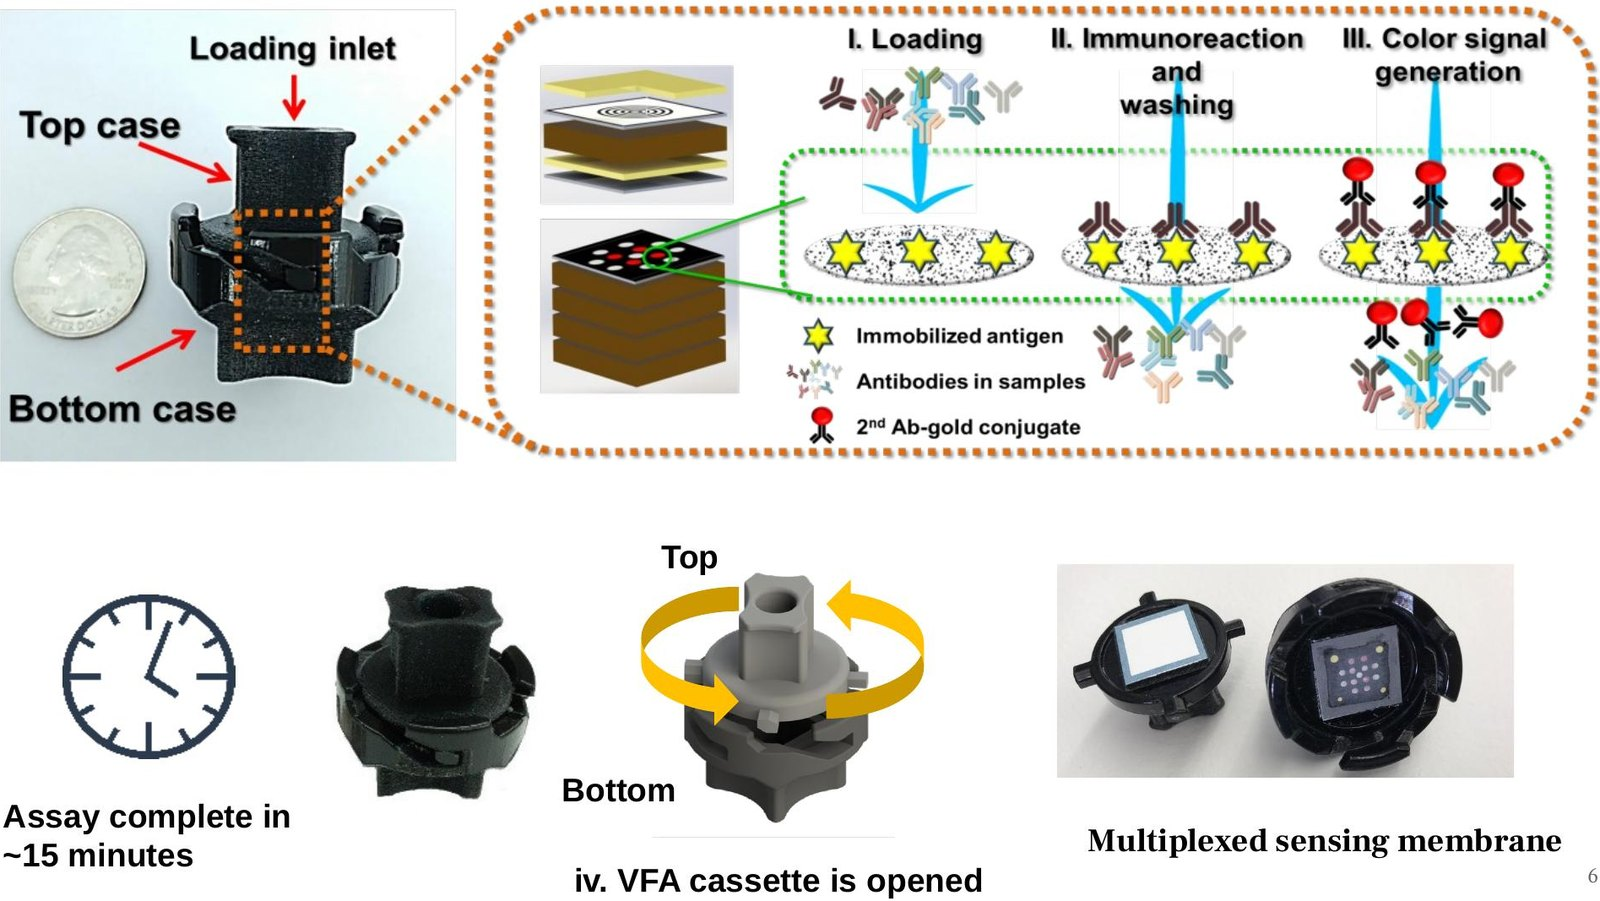
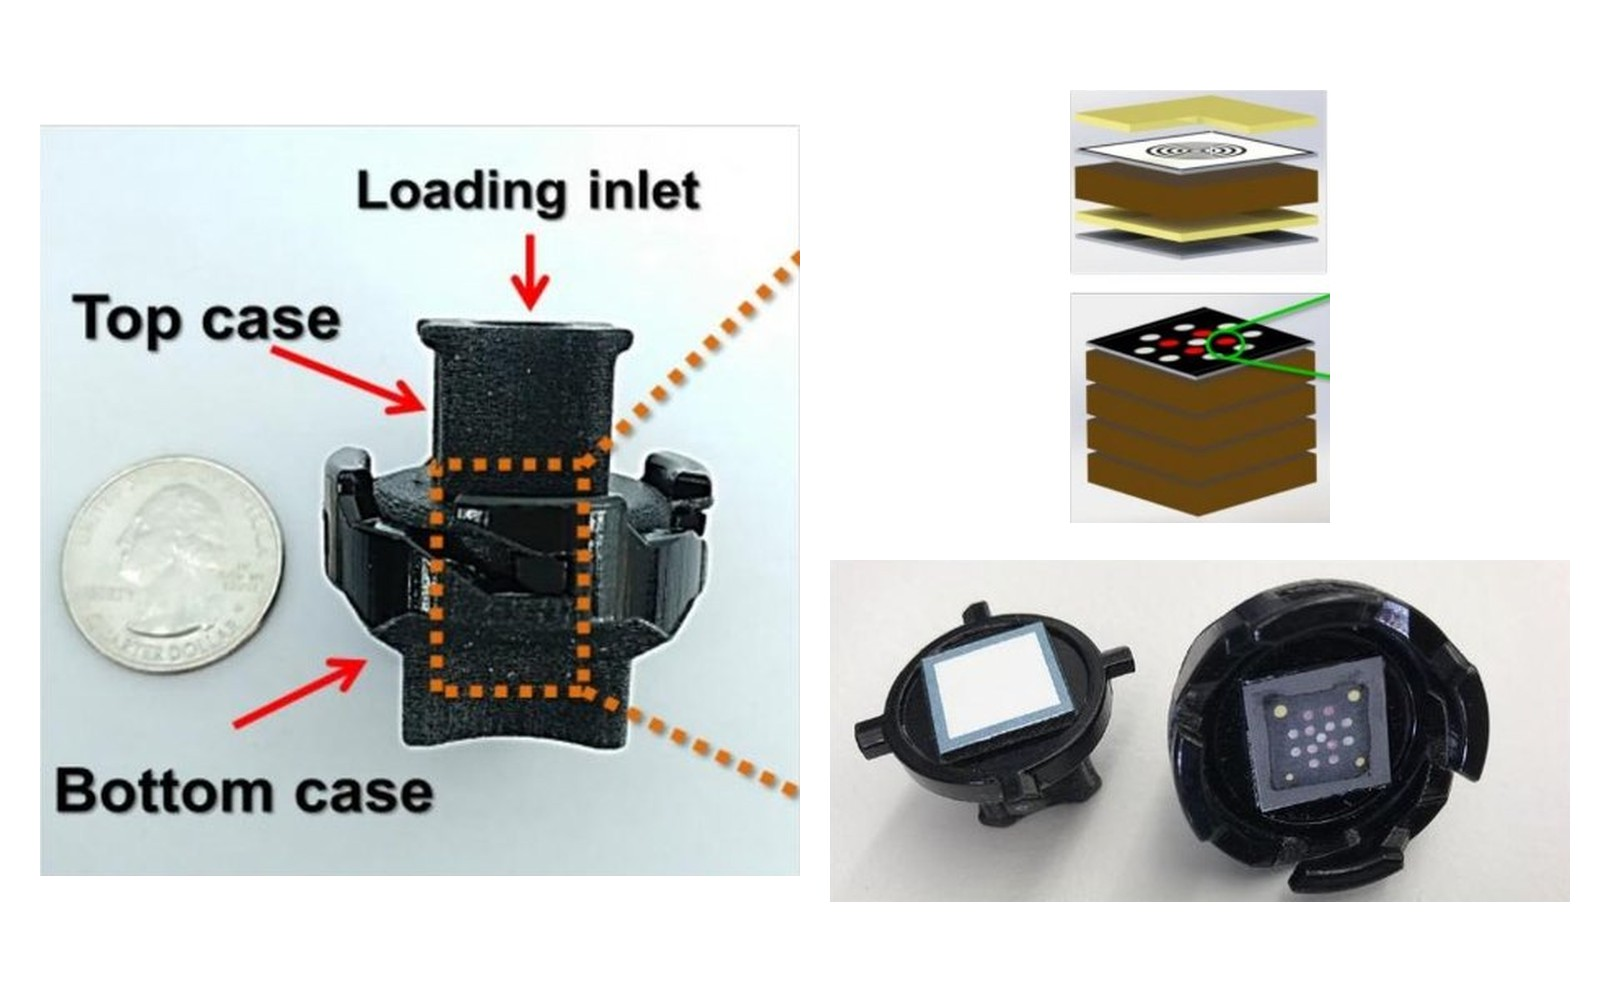
Add ML4H 2026 paper, remove Benefit Borough, refit VFA thumbnail, pin footer to page bottom, extend Siemens dates to Dec 2026
Claude-Session: https://claude.ai/code/session_01FrUed8rRhgVardZ2193Mgy

diff --git a/research.html b/research.html
@@ -480,7 +480,7 @@ main { padding-top: var(--nav-h); }
     } catch (e) {}
   })();
 </script>
-<link rel="stylesheet" href="assets/css/shell.css?v=4" />
+<link rel="stylesheet" href="assets/css/shell.css?v=5" />
 <style>
   /* award line inside a card, marked like a highlighter instead of a corner ribbon */
   .pub-award { font-size: 14.5px; color: var(--text-2); margin: 0 0 8px; }
@@ -536,6 +536,24 @@ main { padding-top: var(--nav-h); }
     </div>
 
     <div class="pub-list" id="pubList">
+
+      <!-- PROJECT: Who Gets the Second Opinion? (ML4H 2026 Proceedings) -->
+      <article class="pub reveal" id="second-opinion" data-year="2026" data-type="research" data-sortyear="2026.95" data-abstract="Selective prediction, in which a model abstains when uncertain, is widely proposed as a safety mechanism for clinical machine learning, but it is not well understood whether its benefits are shared equally across demographic groups. We evaluate five systems (zero-shot vision-language models and a supervised classifier) for chest radiograph finding classification on 117,926 patient-finding pairs from 17,318 patients, with external replication at a second institution, and measure how abstention changes demographic gaps in selective risk. Abstention does not uniformly widen these gaps; it redistributes them. At the prespecified 20% coverage, gaps widen for two systems and narrow for three, the direction flips with coverage for several systems, and it cannot be predicted from aggregate performance. Against a null in which abstention is random, gaps change beyond chance in 18 of 25 system-attribute combinations, but in only 1 of 5 for sex. Redistribution is not specific to zero-shot models: the supervised classifier, which has the highest failure-prediction AUROC in the study, shows the largest effect. A counterfactual that holds predictions fixed and changes only the confidence ranking shows that the ranking causally drives redistribution in some systems but not all. Theoretically, we show that even a correctness oracle applied at a common coverage c leaves group g with selective risk max(0, 1 &minus; a_g/c), so unequal group accuracies produce unequal residual risk even under perfect error identification. Under the same oracle, equalizing selective risk across groups (risk parity) costs nothing in aggregate utility and requires only reallocating coverage in proportion to group accuracy, subject to a feasibility condition that two of the five systems violate at 90% coverage. Because accuracy-optimal selective prediction is indifferent among coverage allocations with very different demographic risk profiles, the allocation a deployed system ends up with should be measured and reported, not left implicit.">
+        <a class="pub-card" href="#second-opinion">
+          <div class="pub-thumb"><img src="assets/figures/ml4h-second-opinion.jpg" alt="Schematic of selective prediction: two demographic groups with different abstention and residual error patterns" loading="lazy"><span class="pub-arrow"><svg viewBox="0 0 24 24" fill="none" stroke="currentColor" stroke-width="2.2" stroke-linecap="round" stroke-linejoin="round"><path d="M7 17 17 7M8 7h9v9"/></svg></span></div>
+          <div class="pub-body">
+            <div class="pub-year">2026</div>
+            <div class="pub-main">
+              <h3>Who Gets the Second Opinion? Selective Prediction Redistributes Demographic Risk in Medical AI</h3>
+              <div class="pub-authors"><span class="me">Teshome H</span></div>
+              <div class="pub-meta-row">
+                <span class="pub-pill">ML4H 2026</span>
+                <span class="pub-pill">PMLR</span>
+              </div>
+            </div>
+          </div>
+        </a>
+      </article>
 
       <!-- PROJECT: RadOncReason (RL with verifiable rewards) -->
       <article class="pub reveal" id="radoncreason" data-year="2026" data-type="research" data-sortyear="2026.85" data-abstract="LLM treatment recommendations that conflict with national guidelines are a key safety concern for AI decision support in cancer care. RadOncReason asks whether reinforcement learning against a verifiable, guideline-grounded reward can make these recommendations safe, guideline-concordant, and verifiable. We post-trained Qwen2.5-7B to propose prostate cancer treatment plans, scoring each plan with an automated verifier that encodes NCCN risk stratification, treatment modality, and per-risk-group dose, fractionation, and therapy ranges, and compared three RL algorithms and several reward definitions, including process rewards and a learned reward model. Performance was driven largely by reward definition rather than algorithm: without an explicit risk constraint, models systematically over-treated low- and intermediate-risk patients, while encoding the clinical risk constraint in the verifier produced fully guideline-concordant plans (0.970 to 1.000; +0.030, 95% CI [+0.015, +0.048]), which neither a larger unconstrained model nor alternative algorithms matched. The models&#39; stated reasoning often did not drive their recommendations, suggesting clinical use should rely on independently verified recommendations rather than model explanations. The framework generalized to a ten-site pan-cancer cohort of 5,267 patients (concordance 0.997).">
@@ -593,19 +611,6 @@ Conclusions: Evidence linking postdiagnostic intake of red meat, poultry, and eg
         </a>
       </article>
 
-      <!-- PROJECT: Benefit Borough -->
-      <article class="pub reveal" id="benefit-borough" data-year="2026" data-type="applications projects" data-sortyear="2026.9" data-abstract="More than $100B a year in earned benefits goes unclaimed. Benefit Borough, built at Cal Hacks 13.0, is a multiplayer pixel-art farming town where each benefit you are about to lose grows as a crop with its deadline ticking. Ruth, the town's AI reviewer, looks up your employer's, insurer's, and school's published benefits with a cited source for every fact, drafts your claims with receipts attached, and checks each one against the plan's own rules. In the Benefit Bazaar, shopkeeper agents search live listings for the best item an unspent benefit covers. Nothing is sent or bought without your approval. Built with Next.js, Claude, SpacetimeDB, Convex, and three.js.">
-        <a class="pub-card" href="#benefit-borough">
-          <div class="pub-thumb"><img src="assets/figures/benefit-borough.jpg" alt="Benefit Borough — AI agents that find and claim your unclaimed benefits" loading="lazy"><span class="pub-arrow"><svg viewBox="0 0 24 24" fill="none" stroke="currentColor" stroke-width="2.2" stroke-linecap="round" stroke-linejoin="round"><path d="M7 17 17 7M8 7h9v9"/></svg></span></div>
-          <div class="pub-body">
-            <div class="pub-year">2026 <small>· CalHacks 13.0</small></div>
-            <div class="pub-main">
-              <h3>Benefit Borough</h3>
-              <div class="pub-authors">A multiplayer pixel-art farming town where every benefit you are about to lose grows as a crop, and AI agents find the money, fill out your claims, and shop your perks. Nothing is sent or bought without your approval.</div>
-            </div>
-          </div>
-        </a>
-      </article>
 
       <!-- PROJECT: Lyme diagnostic (journal + conference) -->
       <article class="pub reveal" id="lyme-dx" data-year="2020" data-type="research" data-sortyear="2020.2" data-abstract="Standard two-tier serology for Lyme disease is under 50% sensitive in early-stage infection, costs over $400, and takes more than a day. This work presents a rapid, low-cost point-of-care alternative: a paper-based multiplexed vertical flow assay (xVFA) that measures antibodies against seven Borrelia antigens and a synthetic peptide on a single sensing membrane, imaged by a mobile-phone reader. A deep neural network computationally selects the most informative antigen subset and infers the diagnosis. In fully-blinded testing across 96 serum samples it achieved an AUC of 0.950 with 90.5% sensitivity and 87.0% specificity; with batch-specific standardization and threshold tuning, specificity rose to 96.3% (AUC 0.963). Each test costs about $0.42 and runs in 15 minutes.">
@@ -629,7 +634,7 @@ Conclusions: Evidence linking postdiagnostic intake of red meat, poultry, and eg
       <!-- PROJECT: Vertical flow assay platform (journal) -->
       <article class="pub reveal" id="vfa-platform" data-year="2019" data-type="research" data-sortyear="2019" data-abstract="A multiplexed point-of-care immunoassay built by vertically stacking functional paper layers (xVFA), where gold-nanoparticle colorimetric signals are captured on a spatially-multiplexed sensing membrane patterned with distinct antigens. A vertical flow diffuser and an asymmetric spreading membrane were engineered to make flow uniform across the membrane, cutting signal variation from 94% to about 13%. The assay completes in roughly 20 minutes, is read by a low-cost mobile-phone reader with server-side image analysis, and was demonstrated by quantifying Lyme-specific antibodies (anti-OspC, anti-BmpA, anti-P41) in human sera — establishing the scalable xVFA platform at about 27¢ per test.">
         <a class="pub-card" href="https://doi.org/10.1039/c9lc00011a" target="_blank" rel="noopener">
-          <div class="pub-thumb"><img src="assets/figures/vfa-device.jpg?v=2" alt="Paper-based multiplexed vertical flow assay cassettes with a portable mobile-phone reader" loading="lazy"><span class="pub-arrow"><svg viewBox="0 0 24 24" fill="none" stroke="currentColor" stroke-width="2.2" stroke-linecap="round" stroke-linejoin="round"><path d="M7 17 17 7M8 7h9v9"/></svg></span></div>
+          <div class="pub-thumb"><img src="assets/figures/vfa-device.jpg?v=3" alt="Paper-based multiplexed vertical flow assay cassettes with a portable mobile-phone reader" loading="lazy"><span class="pub-arrow"><svg viewBox="0 0 24 24" fill="none" stroke="currentColor" stroke-width="2.2" stroke-linecap="round" stroke-linejoin="round"><path d="M7 17 17 7M8 7h9v9"/></svg></span></div>
           <div class="pub-body">
             <div class="pub-year">2019</div>
             <div class="pub-main">
@@ -719,6 +724,10 @@ Conclusions: Evidence linking postdiagnostic intake of red meat, poultry, and eg
 
   /* Each project groups its journal / conference / preprint outputs */
   const PROJECTS = {
+    'second-opinion': [
+      { type: 'Conference', venue: 'Machine Learning for Health (ML4H) 2026, Proceedings track (PMLR)', year: 2026 },
+      { type: 'Code', venue: 'equitable-abstention on GitHub', year: 2026, url: 'https://github.com/haile-teshome/equitable-abstention' },
+    ],
     'radoncreason': [
       { type: 'Poster', venue: '2026 Scientific Retreat, UCSF Prostate Cancer Program', year: 2026 },
     ],
@@ -781,21 +790,14 @@ Conclusions: Evidence linking postdiagnostic intake of red meat, poultry, and eg
   /* ---------- Publication preview modal ---------- */
   /* Extra screenshots shown as a carousel in the preview modal */
   const GALLERIES = {
+    'second-opinion': ['assets/figures/ml4h-second-opinion.jpg'],
     'radoncreason': ['assets/figures/radoncreason-poster.jpg'],
     'evidence-engine': [
       'assets/figures/evidence-engine.jpg', 'assets/figures/colm-poster.jpg',
       'assets/figures/gallery/evidence-engine-comparison.jpg',
     ],
-    'benefit-borough': [
-      'assets/figures/gallery/benefit-borough-trailer.mp4', 'assets/figures/benefit-borough.jpg',
-      'assets/figures/gallery/bb-02-create-farmer.jpg', 'assets/figures/gallery/bb-03-ruth-findings.jpg',
-      'assets/figures/gallery/bb-04-farm.jpg', 'assets/figures/gallery/bb-05-ruth-approved.jpg',
-      'assets/figures/gallery/bb-06-claim-form.jpg', 'assets/figures/gallery/bb-07-bazaar-results.jpg',
-      'assets/figures/gallery/bb-08-catch.jpg', 'assets/figures/gallery/bb-09-balloons-pop.jpg',
-      'assets/figures/gallery/bb-10-bugs-aim.jpg', 'assets/figures/gallery/benefit-borough-system.jpg',
-    ],
     'lyme-dx': ['assets/figures/paper-assay.jpg?v=2', 'assets/figures/gallery/lyme-poster.jpg'],
-    'vfa-platform': ['assets/figures/vfa-device.jpg?v=2', 'assets/figures/gallery/vfa-layers.jpg'],
+    'vfa-platform': ['assets/figures/vfa-device.jpg?v=3', 'assets/figures/gallery/vfa-layers.jpg'],
     'mify': [
       'assets/figures/gallery/mify-1.jpg', 'assets/figures/gallery/mify-2.jpg',
       'assets/figures/gallery/mify-3.jpg', 'assets/figures/gallery/mify-4.jpg',

diff --git a/index.html b/index.html
@@ -350,6 +350,12 @@ html:not(.wx-ready) .side-img, html:not(.wx-ready) .side-tint { transition: none
   /* match the Portfolio: no white frames, posters show from the title down */
   .card .fig { background: var(--card); }
   .card .fig img[src*="poster"] { object-position: 50% 0; }
+  /* keep the footer pinned to the bottom of the window on short pages */
+  @media (min-width: 641px) {
+    .page { display: flex; flex-direction: column; min-height: 100vh; box-sizing: border-box; }
+    .page > footer { margin-top: auto; }
+    .page > :not(footer):nth-last-child(2) { margin-bottom: 24px; }
+  }
 </style>
 <link rel="preconnect" href="https://fonts.googleapis.com"><link href="https://fonts.googleapis.com/css2?family=Newsreader:opsz,wght@6..72,500;6..72,600&family=Source+Sans+3:wght@400;600&display=swap" rel="stylesheet">
 <link rel="stylesheet" href="assets/css/banner.css?v=4" />
@@ -401,6 +407,7 @@ html:not(.wx-ready) .side-img, html:not(.wx-ready) .side-tint { transition: none
   <section>
     <h2>Latest news</h2>
     <ul class="news">
+      <li><span class="d">Oct 2026</span><span class="t">"Who Gets the Second Opinion? Selective Prediction Redistributes Demographic Risk in Medical AI" accepted to the ML4H 2026 Proceedings track.</span></li>
       <li><span class="d">Oct 2026</span><span class="t">Presented Evidence Engine, our open-source platform for LLM-assisted systematic reviews, at the Language Models for Science (LM4Sci) workshop at COLM 2026.</span></li>
       <li><span class="d">Oct 2026</span><span class="t">Retrieval-augmented verification of chest X-ray radiology reports with an LLM judge accepted at the GenAI for Health workshop, NeurIPS 2026.</span></li>
       <li><span class="d">Aug 2026</span><span class="t">Our systematic review of postdiagnostic red meat, poultry, and egg intake and prostate cancer outcomes was published in The Journal of Urology.</span></li>
@@ -412,6 +419,12 @@ html:not(.wx-ready) .side-img, html:not(.wx-ready) .side-tint { transition: none
   <section>
     <h2>Selected research</h2>
     <div class="cards">
+      <a class="card" href="research.html#second-opinion">
+        <div class="fig"><img src="assets/figures/ml4h-second-opinion.jpg" alt="Schematic of selective prediction: two demographic groups with different abstention and residual error patterns" loading="lazy"></div>
+        <div class="v">2026 · ML4H · PMLR</div>
+        <h3>Who Gets the Second Opinion? Selective Prediction Redistributes Demographic Risk in Medical AI</h3>
+        <div class="a"><b>Teshome H</b></div>
+      </a>
       <a class="card" href="research.html#radoncreason">
         <div class="fig"><img src="assets/figures/radoncreason-poster.jpg" alt="RadOncReason poster: reinforcement learning with verifiable rewards for prostate cancer treatment planning" loading="lazy"></div>
         <div class="v">2026 · Poster · Manuscript in prep</div>
@@ -429,12 +442,6 @@ html:not(.wx-ready) .side-img, html:not(.wx-ready) .side-tint { transition: none
         <div class="v">2026 · J Urol</div>
         <h3>Postdiagnostic Red Meat, Poultry, and Egg Intake and Risk of Prostate Cancer Progression and Mortality: A Systematic Review</h3>
         <div class="a">Sandhu S, <b>Teshome H</b>, Van Blarigan EL, Chan JM, Kenfield SA, Graff RE</div>
-      </a>
-      <a class="card" href="https://doi.org/10.1021/acsnano.9b08151" target="_blank" rel="noopener">
-        <div class="fig"><img src="assets/figures/paper-assay.jpg?v=2" alt="Graphical abstract: multiplexed paper-based immunoassay with machine-learning classification for Lyme disease" loading="lazy"></div>
-        <div class="v">2020 · ACS Nano</div>
-        <h3>Early-Stage Lyme Disease Diagnosis with a Multiplexed Paper-Based Assay &amp; Machine Learning</h3>
-        <div class="a">Joung HA, Ballard ZS, Wu J, Tseng DK, <b>Teshome H</b>, Zhang L, Horn EJ, Arnaboldi PM, Dattwyler RJ, Garner OB, Di Carlo D, Ozcan A</div>
       </a>
     </div>
     <div class="more"><a href="research.html">All publications and projects →</a></div>

diff --git a/experience.html b/experience.html
@@ -402,7 +402,7 @@ main { padding-top: var(--nav-h); }
     } catch (e) {}
   })();
 </script>
-<link rel="stylesheet" href="assets/css/shell.css?v=4" />
+<link rel="stylesheet" href="assets/css/shell.css?v=5" />
 <style>
   /* page nav: no colored side bars or boxes; active item is simply darker and bolder */
   .xp-nav a, .xp-nav a:hover, .xp-nav a.active { border-left: 0; background: none; border-radius: 0; padding: 6px 0; }
@@ -496,7 +496,7 @@ main { padding-top: var(--nav-h); }
           <div class="tl-section-head"><span class="eyebrow">Work &amp; research</span></div>
 
           <div class="tl-item current reveal">
-            <div class="tl-dates">Jun 2026 - Sep 2026 <span class="loc">Palo Alto, CA</span></div>
+            <div class="tl-dates">Jun 2026 - Dec 2026 <span class="loc">Palo Alto, CA</span></div>
             <div class="tl-head"><div class="tl-logo" data-mono="SHS"><img src="assets/logos/siemens.png" alt="Siemens Healthineers" loading="lazy"></div><div class="tl-logo" data-mono="VAR"><img src="assets/logos/varian.png" alt="Varian Medical Systems" loading="lazy"></div><h3>AI/ML Engineer Intern</h3></div>
             <div class="tl-org">Siemens Healthineers / Varian Medical Systems</div>
             <ul class="tl-bullets">

diff --git a/assets/css/shell.css b/assets/css/shell.css
@@ -326,3 +326,10 @@ html:not(.wx-ready) .side-img, html:not(.wx-ready) .side-tint { transition: none
 .page > main .section { padding-bottom: 12px; }
 footer { padding: 14px 0 18px; margin-top: 24px; }
 @media (max-width: 640px) { .page { padding-top: 14px; } }
+
+/* keep the footer pinned to the bottom of the window on short pages */
+@media (min-width: 641px) {
+  .page { display: flex; flex-direction: column; min-height: 100vh; box-sizing: border-box; }
+  .page > footer { margin-top: auto; }
+  .page > :not(footer):nth-last-child(2) { margin-bottom: 24px; }
+}

diff --git a/contact.html b/contact.html
@@ -398,7 +398,7 @@ main { padding-top: var(--nav-h); }
     } catch (e) {}
   })();
 </script>
-<link rel="stylesheet" href="assets/css/shell.css?v=4" />
+<link rel="stylesheet" href="assets/css/shell.css?v=5" />
 <link rel="stylesheet" href="assets/css/banner.css?v=4" />
 </head>
 <body>

diff --git a/hobbies.html b/hobbies.html
@@ -367,7 +367,7 @@ main { padding-top: var(--nav-h); }
     } catch (e) {}
   })();
 </script>
-<link rel="stylesheet" href="assets/css/shell.css?v=4" />
+<link rel="stylesheet" href="assets/css/shell.css?v=5" />
 <link rel="stylesheet" href="assets/css/banner.css?v=4" />
 </head>
 <body>
